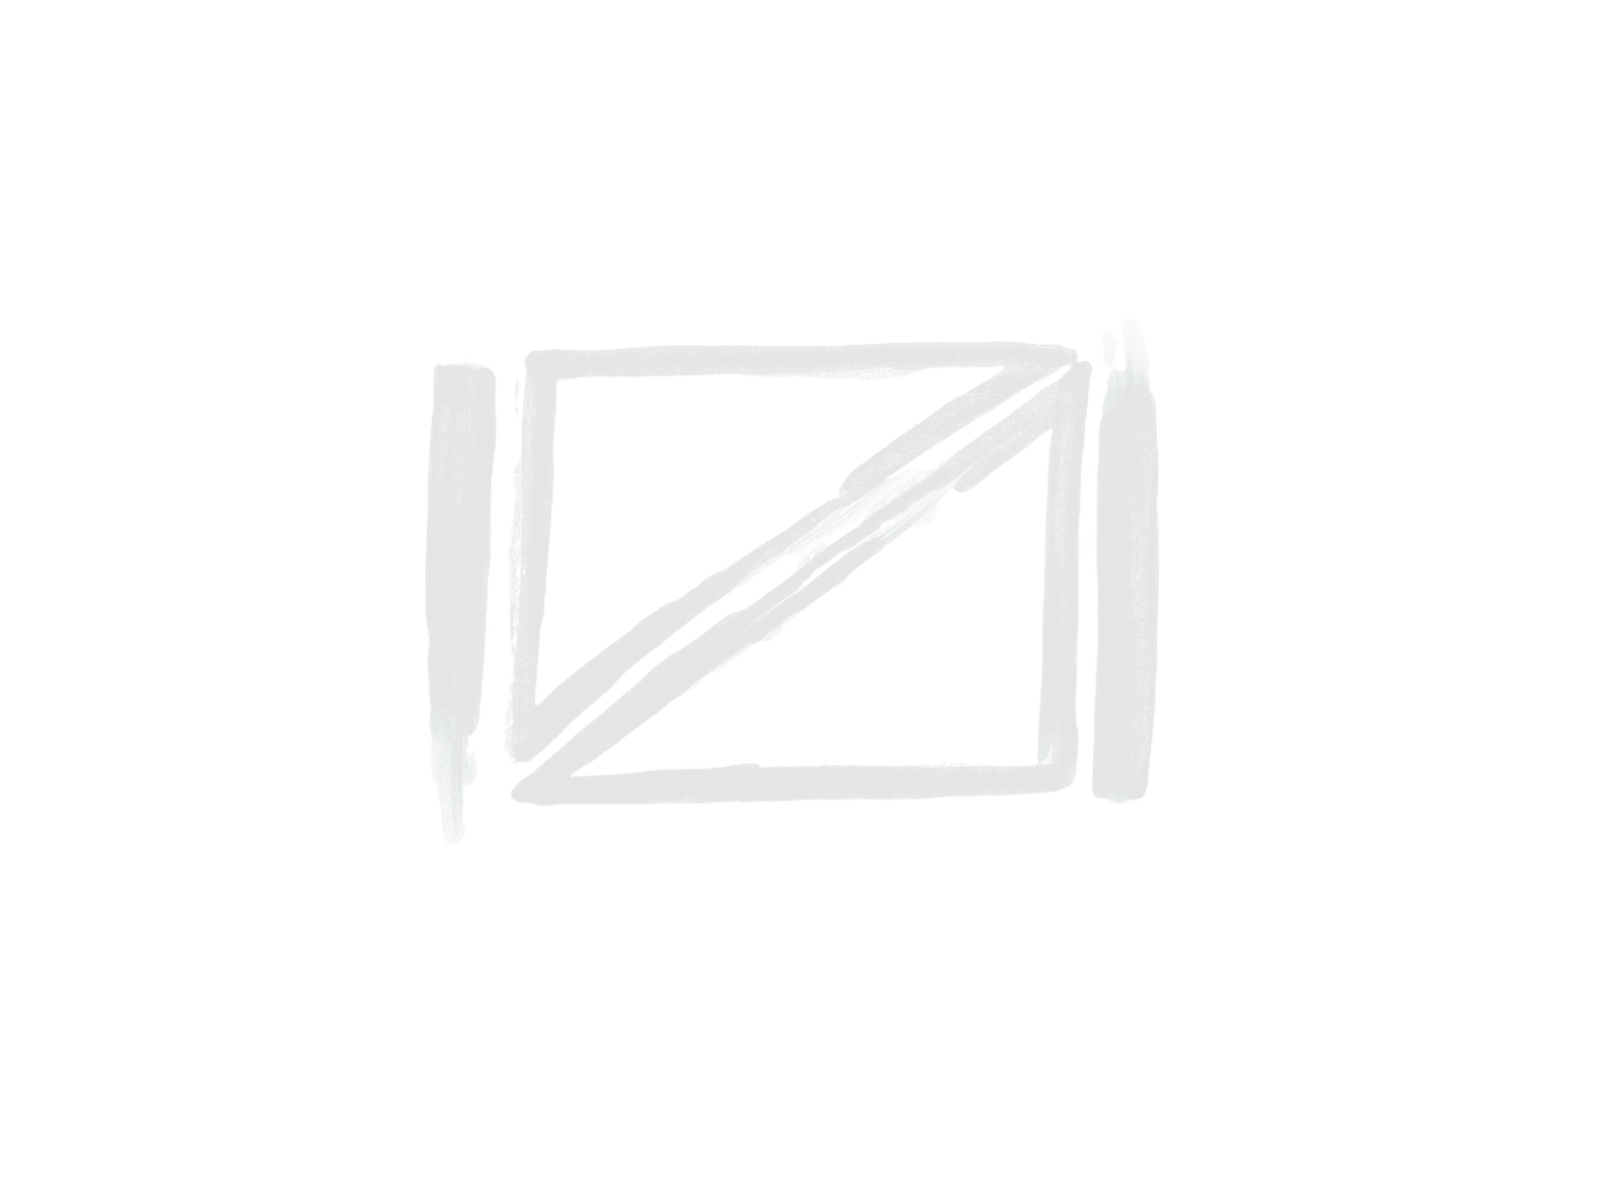
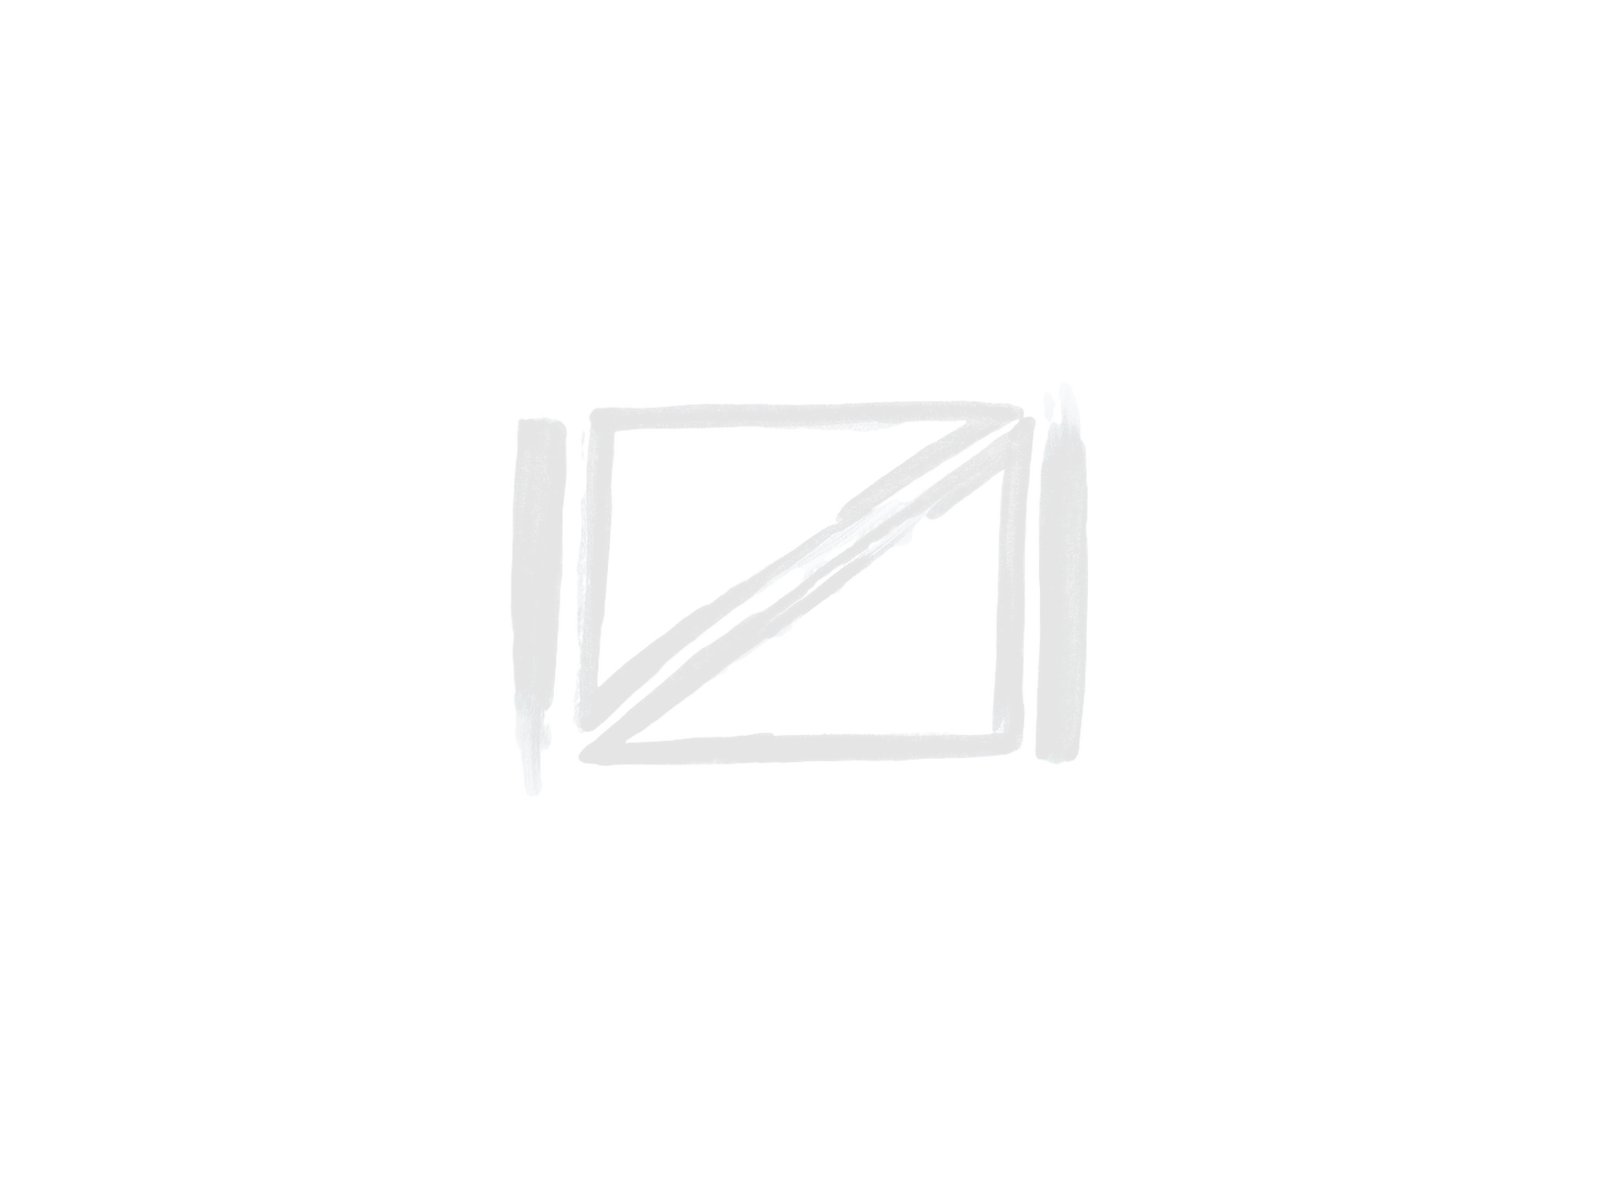
updates

Changed region(s): [[0.2497, 0.277, 0.7491, 0.6772]]

diff --git a/idstyle.css b/idstyle.css
@@ -20,8 +20,7 @@ body {
     font-family:Arial, Helvetica, sans-serif;
     margin-left:77px;
     margin-right:77px;
-
- }
+     }
 
 
 
@@ -53,7 +52,7 @@ h1 {
     color:black;
     font-family:'Gloria Hallelujah', 'Arial Narrow Bold', sans-serif;
     font-size:2em;
-    text-align:left:;
+    text-align:left;
    
 }
 
@@ -87,8 +86,8 @@ header {
     height: 5em;
     justify-content: space-between;
     align-items: center;
-    width:95%;
-/*    border: 1px solid brown;*/
+    width:22%;
+    /*border: 2px dotted #de5004;*/
     background-color:eggshell;
 }
 
@@ -105,8 +104,7 @@ header {
                     margin-right:5%;
                     margin-top:5%;
                     line-height:2em;
-                    
-                    
+                      
                   }
                   
                   
@@ -122,24 +120,26 @@ header {
                     
                   }
 
+
+/* object identifiers */
+
+/* band name */
 img#logoname {
     position:fixed;
     left:11px;
     top:11px;
    }
 
+/* band logo */
     img#logosymbol {
     position:fixed;
     right:11px;
     top:11px;
-    opacity: 0.7;
+    opacity: 0.7;  
 }
 
-#footer {
-  float:bottom;
-  left:30px;
-  bottom:3px;
-  
+h5#footerview {
+    text-align:center;
 }
 
 
@@ -149,14 +149,18 @@ div.maintext {
     flex-direction:row;
     margin-left:422px;
     font-family:'Saira', Arial, Helvetica, sans-serif;
-    font-size:1em;
-     
+    font-size:1em; 
 }
 
 div.socialmedia {
 display:flex;
 flex-direction: row;
-align-content:right;
+align-content:center;
 
 }
+div.footer{
+    position:fixed;
+    bottom:7px;
 
+    
+}

diff --git a/connect.html b/connect.html
@@ -36,13 +36,13 @@
 </div> 
 
 
-<p class="socialmedia">
+<p class="socialmedia"><center>
 <img id="instagram" src="http://rhynep.github.io/id/images/ig.png" width="44">
 <img id="youtube" src="http://rhynep.github.io/id/images/yt.png" width="44">
 <img id="twitter" src="http://rhynep.github.io/id/images/t.png" width="44">
 <img id="facebook" src="http://rhynep.github.io/id/images/fb.png" width="44">
 <img id="bandcamp" src="http://rhynep.github.io/id/images/bc.png" width="44">
-</p>
+</center></p>
 
 
 

diff --git a/main.html b/main.html
@@ -40,18 +40,15 @@ the official website of <br>
 </div>
 
 
-
-
-<section>
-    <center>
-    <footer>
-    
-        <h5>© Indecent Degenerates 2020</h5>
-    
+<section> 
+        <footer>
+           
+   <div class="footer"><h5 id="footerview">© Indecent Degenerates 2020</h5></div>
     </footer>
-    </center>
+
     </section>
-    
+
+
     </body>
     </html>
     
